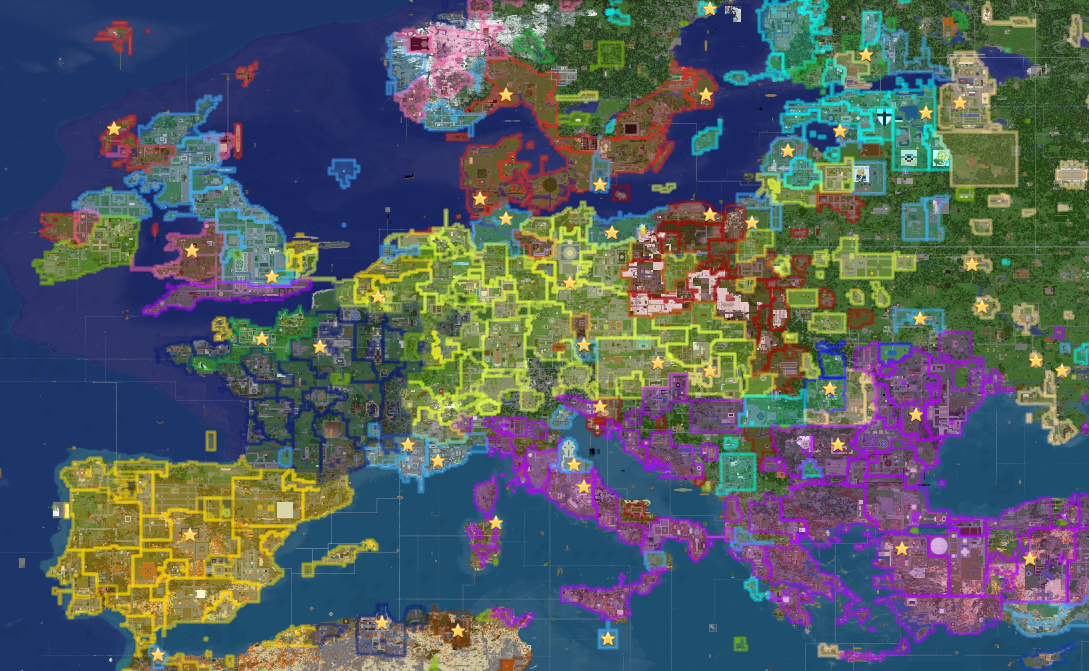
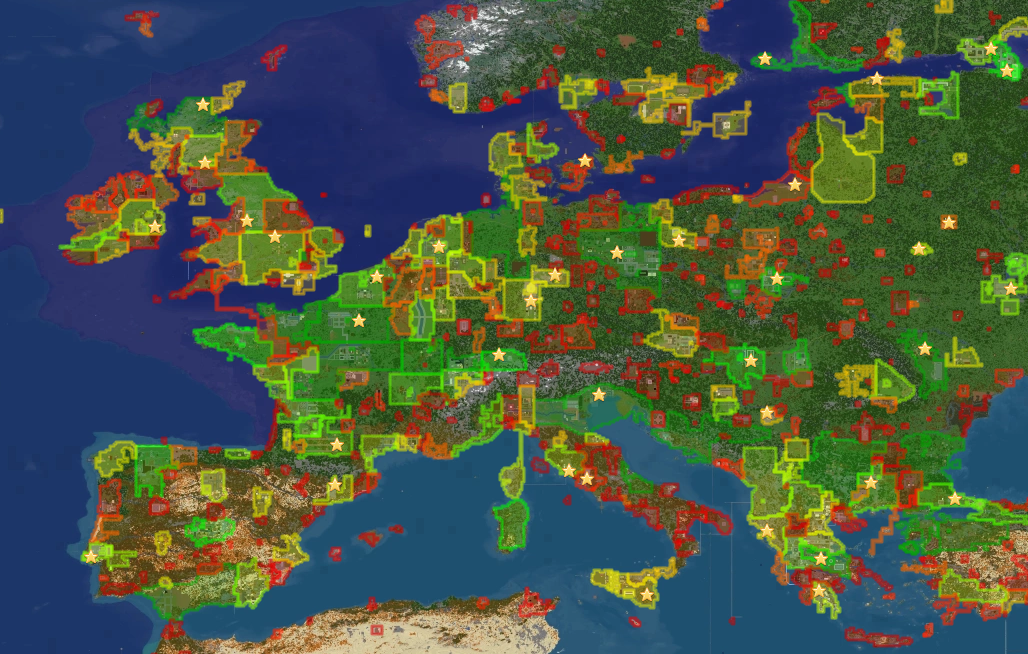
eu4 mapmode

diff --git a/process.js b/process.js
@@ -7,6 +7,29 @@ const cors = require("cors");
 var app = (module.exports = express());
 app.use(cors());
 
+// Pre-load EU4 color data
+var rawData = {};
+var eu4colors = [];
+https.get(
+  "https://raw.githubusercontent.com/32Vache/emc-mapmodes/main/eu4-colors.json",
+  function (res) {
+    var body = "";
+
+    res.on("data", function (chunk) {
+      body += chunk;
+    });
+
+    res.on("end", function () {
+      rawData = JSON.parse(body);
+      eu4colors = rawData["data"];
+    });
+
+    res.on("error", function (r) {
+      console.log(e);
+    });
+  }
+);
+
 // Area calculator
 /**
  * Calculate area of polygon.
@@ -480,6 +503,138 @@ function builderTApvp() {
   );
 }
 
+function builderTNeu4() {
+  https.get(
+    "https://earthmc.net/map/nova/tiles/_markers_/marker_earth.json",
+    function (res) {
+      var body = "";
+
+      res.on("data", function (chunk) {
+        body += chunk;
+      });
+
+      res.on("end", function () {
+        var Response = JSON.parse(body);
+        var areas = Response["sets"]["townyPlugin.markerset"]["areas"];
+
+        for (let i in areas) {
+          var desc = areas[i]["desc"];
+          let desc_title = desc.match(
+            /<span style=\"font-size:120%\">(.+?)<\/span>/
+          );
+          if (desc_title) {
+            desc_title = desc_title[1];
+
+            if (desc_title) {
+              let nation = desc_title.match(/.+? \((.+?)\)$/);
+              if (nation) {
+                nation = nation[1];
+                if (nation) {
+                  // Check if nation has recolor
+                  for (let e of eu4colors) {
+                    if (e["name"] === nation.toLowerCase()) {
+                      Response["sets"]["townyPlugin.markerset"]["areas"][i][
+                        "fillcolor"
+                      ] = e["color"];
+                      Response["sets"]["townyPlugin.markerset"]["areas"][i][
+                        "color"
+                      ] = e["color"];
+                    } else {
+                      // If no EU4 color, then set default nation color to avoid mix-up with EMC's colors
+                      Response["sets"]["townyPlugin.markerset"]["areas"][i][
+                        "fillcolor"
+                      ] = "#4AA9E1";
+                      Response["sets"]["townyPlugin.markerset"]["areas"][i][
+                        "color"
+                      ] = "#4AA9E1";
+                    }
+                  }
+                }
+              }
+            }
+          }
+        }
+
+        // Write file and push to web
+        var final = JSON.stringify(Response);
+        fs.writeFileSync("marker_earth_tn_eu4.json", final, (err) => {
+          if (err) console.log(err);
+        });
+      });
+
+      res.on("error", function (r) {
+        console.log(e);
+      });
+    }
+  );
+}
+
+function builderTAeu4() {
+  https.get(
+    "https://earthmc.net/map/aurora/tiles/_markers_/marker_earth.json",
+    function (res) {
+      var body = "";
+
+      res.on("data", function (chunk) {
+        body += chunk;
+      });
+
+      res.on("end", function () {
+        var Response = JSON.parse(body);
+        var areas = Response["sets"]["townyPlugin.markerset"]["areas"];
+
+        for (let i in areas) {
+          var desc = areas[i]["desc"];
+          let desc_title = desc.match(
+            /<span style=\"font-size:120%\">(.+?)<\/span>/
+          );
+          if (desc_title) {
+            desc_title = desc_title[1];
+
+            if (desc_title) {
+              let nation = desc_title.match(/.+? \((.+?)\)$/);
+              if (nation) {
+                nation = nation[1];
+                if (nation) {
+                  // Check if nation has recolor
+                  for (let e of eu4colors) {
+                    if (e["name"] === nation.toLowerCase()) {
+                      Response["sets"]["townyPlugin.markerset"]["areas"][i][
+                        "fillcolor"
+                      ] = e["color"];
+                      Response["sets"]["townyPlugin.markerset"]["areas"][i][
+                        "color"
+                      ] = e["color"];
+                    } else {
+                      // If no EU4 color, then set default nation color to avoid mix-up with EMC's colors
+                      Response["sets"]["townyPlugin.markerset"]["areas"][i][
+                        "fillcolor"
+                      ] = "#4AA9E1";
+                      Response["sets"]["townyPlugin.markerset"]["areas"][i][
+                        "color"
+                      ] = "#4AA9E1";
+                    }
+                  }
+                }
+              }
+            }
+          }
+        }
+
+        // Write file and push to web
+        var final = JSON.stringify(Response);
+        fs.writeFileSync("marker_earth_ta_eu4.json", final, (err) => {
+          if (err) console.log(err);
+        });
+      });
+
+      res.on("error", function (r) {
+        console.log(e);
+      });
+    }
+  );
+}
+
 // This just reposts the unedited marker_earth. This can be used as a mirror for browser scripts
 // since the raw marker_earth on the EMC website has no cross origin headers.
 function builderTN() {
@@ -545,6 +700,8 @@ builderTNopen();
 builderTAopen();
 builderTNpvp();
 builderTApvp();
+builderTNeu4();
+builderTAeu4();
 builderTN();
 builderTA();
 
@@ -558,6 +715,8 @@ setInterval(function () {
   builderTAopen();
   builderTNpvp();
   builderTApvp();
+  builderTNeu4();
+  builderTAeu4();
   builderTN();
   builderTA();
 }, 180000);

diff --git a/assets/EMC-mapmodes.user.js b/assets/EMC-mapmodes.user.js
@@ -143,12 +143,13 @@ var interval = setInterval(function () {
     mapmode === "area" ? (naam = "Claim size") : "";
     mapmode === "open" ? (naam = "Open/Closed status") : "";
     mapmode === "pvp" ? (naam = "PvP Enabled/Disabled") : "";
+    mapmode === "eu4" ? (naam = "EU4 Colors") : "";
     mapmode === "default" ? (naam = "Default map") : "";
     var infodiv = `
         <div id="emcmapmodes-info" class="coord-control">
            <span class="coord-control-label">Current mapmode: ${naam}</span>
            <br>
-           Change mode: <span class="coord-control-value" onclick="changeMode('pop')">Population</span> / <span class="coord-control-value" onclick="changeMode('area')">Claim size</span> / <span class="coord-control-value" onclick="changeMode('open')">Open status</span><br />/ <span class="coord-control-value" onclick="changeMode('pvp')">PvP status</span> / <span class="coord-control-value" onclick="changeMode('default')">Default</span>
+           Change mode: <span class="coord-control-value" onclick="changeMode('pop')">Population</span> / <span class="coord-control-value" onclick="changeMode('area')">Claim size</span> / <span class="coord-control-value" onclick="changeMode('open')">Open status</span><br />/ <span class="coord-control-value" onclick="changeMode('pvp')">PvP status</span> / <span class="coord-control-value" onclick="changeMode('eu4')">EU4</span> / <span class="coord-control-value" onclick="changeMode('default')">Default</span>
         </div>
         `;
     const div = document.createElement("div");

diff --git a/README.md b/README.md
@@ -11,6 +11,10 @@ Userscript for EarthMC's dynmap that colors towns depeding on different statisti
 - By population
 - By claims
 - Open/Closed status
+- PvP Enabled/Disabled
+- EU4 nation colors
+
+The default map can also be toggled to.
 
 ## Installation
 
